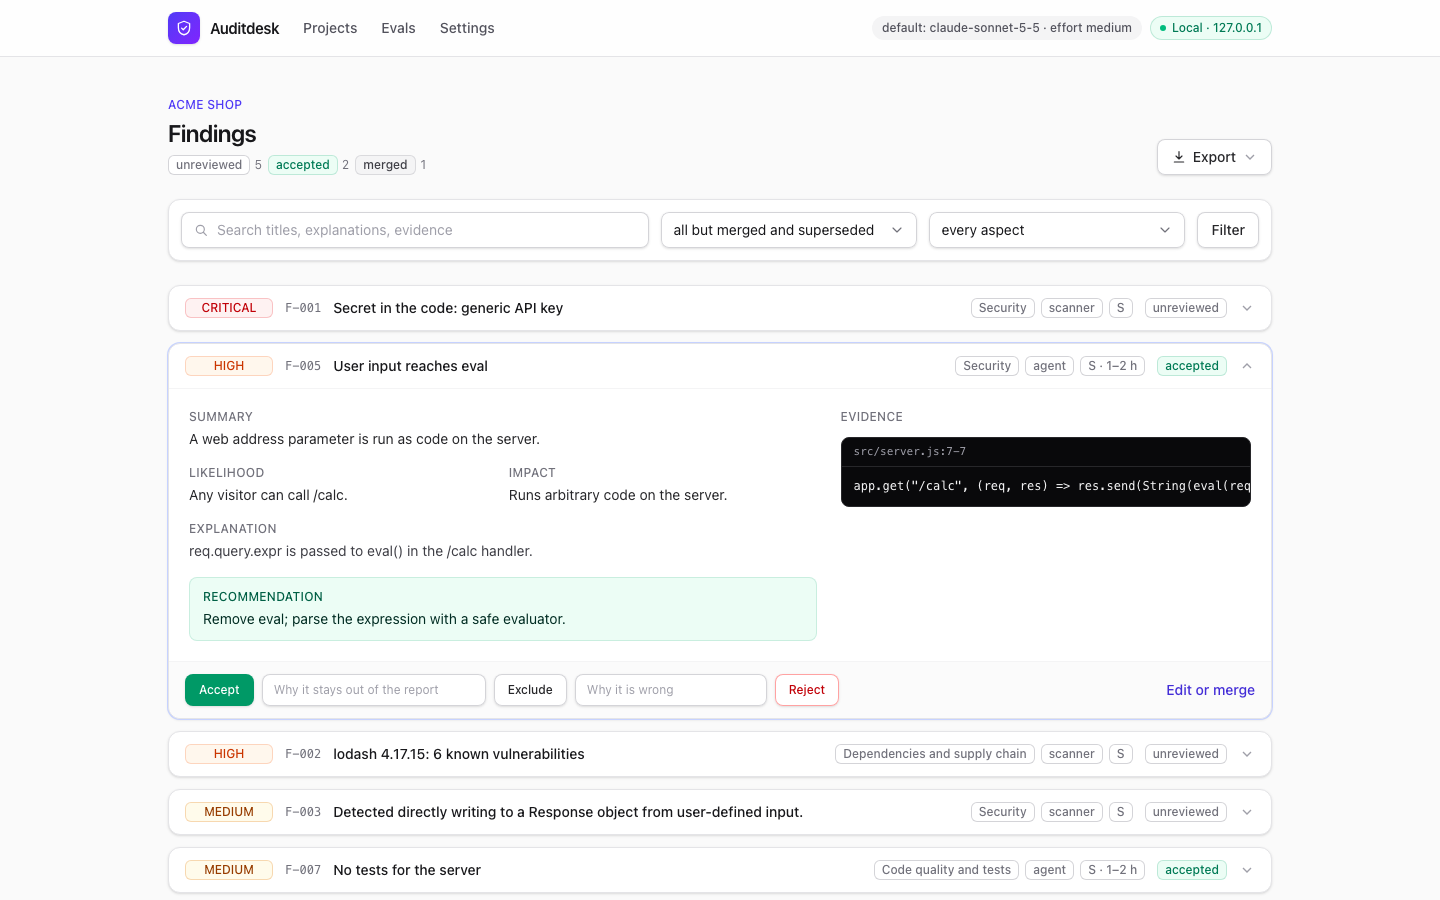
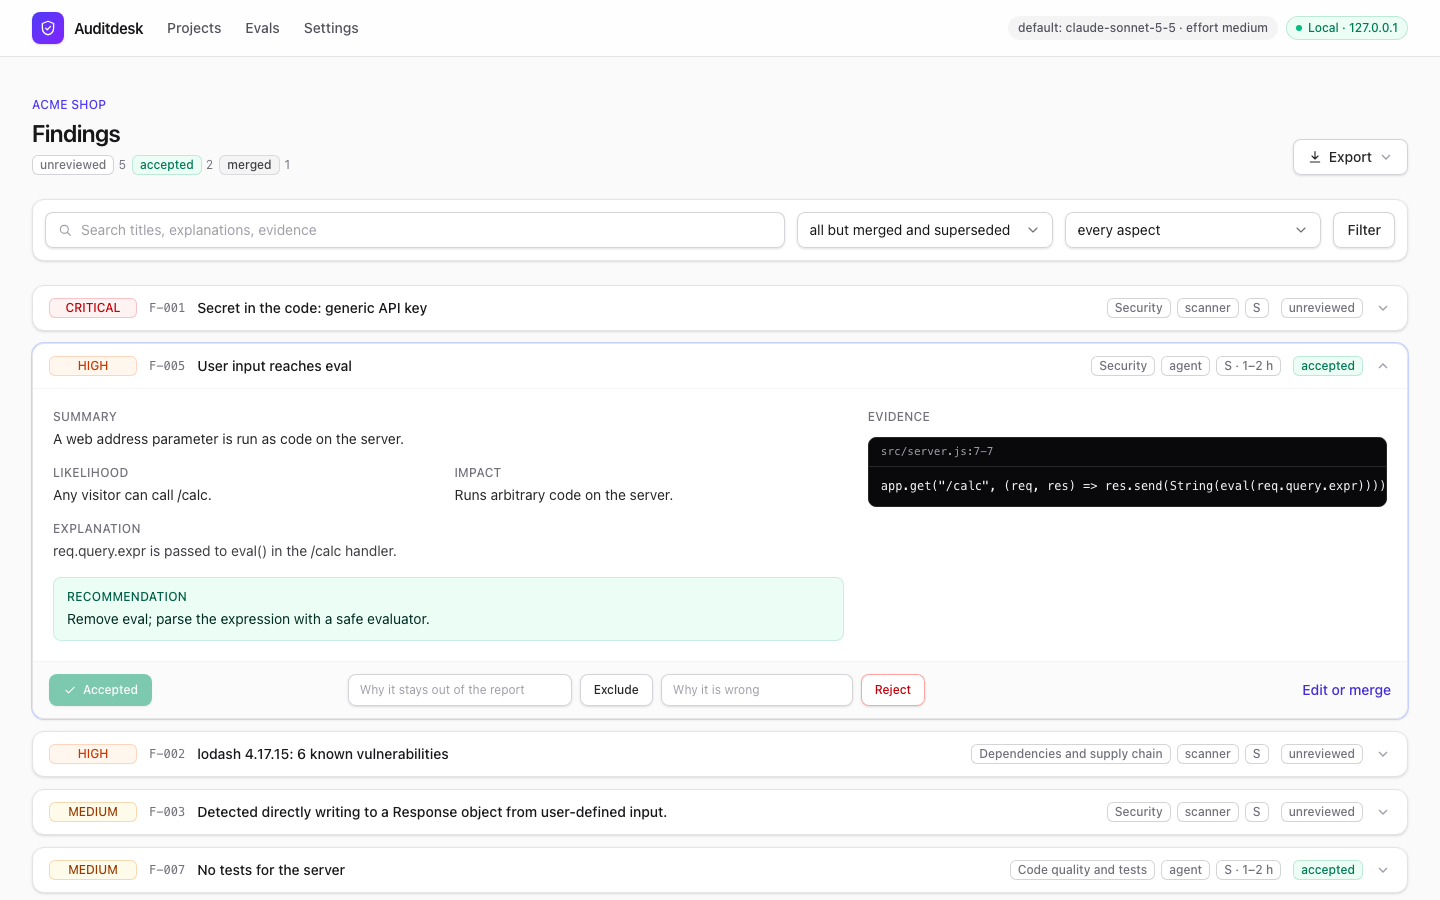
feat(layout): the pages grow with the window
The header and the pages dropped their 72rem cap for gutters that grow with the breakpoint, so
a wide window shows more instead of empty sides. On a 2xl screen a finding's text column stops
at 50rem, a readable line, and its evidence takes the rest, so long lines show whole; the
projects grid takes a fourth column. README screenshots retaken at 1440 px.

diff --git a/src/app/projects/[projectId]/findings/page.tsx b/src/app/projects/[projectId]/findings/page.tsx
@@ -130,8 +130,8 @@ export default async function FindingsPage({
                                     <path d="M6 9l6 6 6-6" />
                                 </svg>
                             </summary>
-                            <div className="grid grid-cols-1 gap-6 border-t border-zinc-100 px-5 py-5 text-sm md:grid-cols-5">
-                                <div className="space-y-4 md:col-span-3">
+                            <div className="grid grid-cols-1 gap-6 border-t border-zinc-100 px-5 py-5 text-sm md:grid-cols-5 2xl:grid-cols-[minmax(0,50rem)_minmax(0,1fr)]">
+                                <div className="space-y-4 md:col-span-3 2xl:col-span-1">
                                     <Section title="Summary">{f.summary}</Section>
                                     {(f.likelihood || f.impact) && (
                                         <div className="grid gap-3 sm:grid-cols-2">
@@ -154,7 +154,7 @@ export default async function FindingsPage({
                                         </p>
                                     )}
                                 </div>
-                                <div className="space-y-3 md:col-span-2">
+                                <div className="space-y-3 md:col-span-2 2xl:col-span-1">
                                     <div className="text-xs font-medium tracking-wide text-zinc-500 uppercase">Evidence</div>
                                     {(f.evidence as { file: string; startLine: number; endLine: number; snippet?: string }[]).map(
                                         (e, i) => (

diff --git a/src/app/layout.tsx b/src/app/layout.tsx
@@ -13,7 +13,7 @@ export default function RootLayout({ children }: { children: React.ReactNode }) 
         <html lang="en">
             <body className="min-h-screen bg-zinc-50 text-zinc-900 antialiased">
                 <header className="sticky top-0 z-10 border-b border-zinc-200 bg-white/85 backdrop-blur">
-                    <nav className="mx-auto flex max-w-6xl flex-wrap items-center gap-x-6 gap-y-2 px-4 py-3 sm:px-6">
+                    <nav className="flex flex-wrap items-center gap-x-6 gap-y-2 px-4 py-3 sm:px-6 lg:px-8">
                         <Link href="/" className="flex items-center gap-2.5">
                             <span className="grid size-8 place-items-center rounded-lg bg-gradient-to-br from-indigo-600 to-violet-600 text-white shadow-sm">
                                 <Icon name="shield" className="size-[18px]" />
@@ -40,7 +40,7 @@ export default function RootLayout({ children }: { children: React.ReactNode }) 
                         </div>
                     </nav>
                 </header>
-                <main className="mx-auto max-w-6xl px-4 py-10 sm:px-6">{children}</main>
+                <main className="px-4 py-10 sm:px-6 lg:px-8">{children}</main>
             </body>
         </html>
     );

diff --git a/src/app/page.tsx b/src/app/page.tsx
@@ -17,7 +17,7 @@ export default async function Home() {
                 <NewProjectForm />
             </Card>
             {projects.length ? (
-                <ul className="grid gap-4 sm:grid-cols-2 lg:grid-cols-3">
+                <ul className="grid gap-4 sm:grid-cols-2 lg:grid-cols-3 2xl:grid-cols-4">
                     {projects.map(p => (
                         <li key={p.id}>
                             <Link
